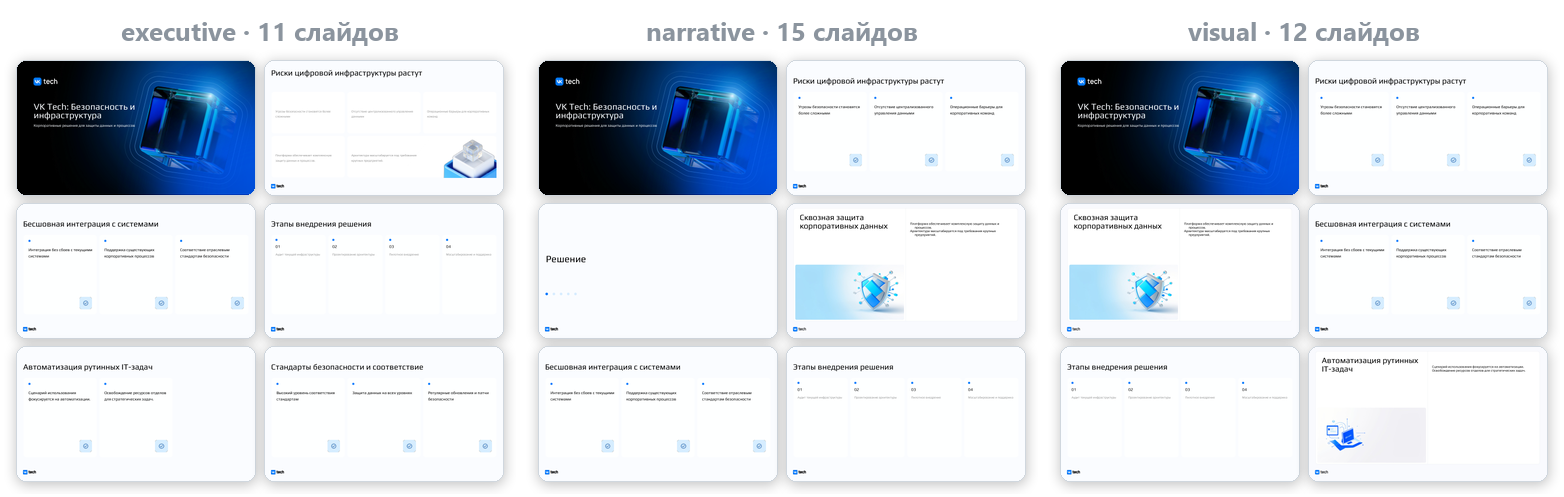
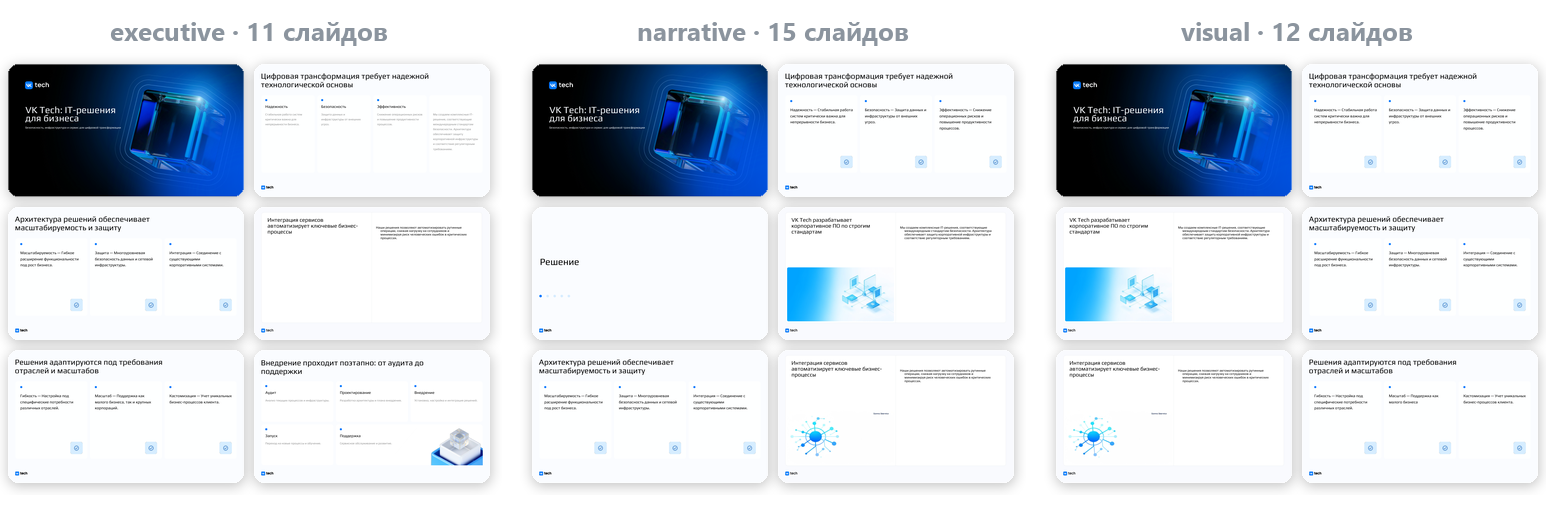
v0.1.3: версия, документация, картинки README
- Версия 0.1.3 в pyproject и deckforge.__version__ (API /health отдавал 0.1.0), бейдж релиза в README.
- README: .potx и подготовка шаблона с VLM, `deckforge prepare`, POST /templates/{id}/prepare,
  ограничение «шаблон без слайдов»; hero.png и strategies.png — по новым колодам.
- ARCHITECTURE: normalize и prepare в слоях, разметка rules / rules+vlm в manifest, «Что получилось» —
  новые цифры и две правки по прогонам.
- PLAN: ответы по ТЗ и вводной жюри, шаг 2 сделан, открытый вопрос про шаблон без слайдов — закрыт кодом.
- BACKLOG: закрыты VLM-разметка загрузки, .potx и абзац WorkSpace slide15; остаток — образцы из лейаутов.

diff --git a/deckforge/__init__.py b/deckforge/__init__.py
@@ -1,3 +1,3 @@
 """deckforge — цифровой дизайнер презентаций: .pptx-шаблон → дизайн-система → колода из брифа → аудит → экспорт."""
 
-__version__ = "0.1.0"
+__version__ = "0.1.3"

diff --git a/docs/ARCHITECTURE.md b/docs/ARCHITECTURE.md
@@ -25,18 +25,18 @@ flowchart LR
 
 | Слой | Вход → Выход | Что знает | Чего не делает |
 |---|---|---|---|
-| `parsing/` | .pptx → `TemplateDNA` | OOXML (`core/package.py` — пакет, тема, цепочки наследования; общий с `audit/`), LibreOffice-рендер, VLM (`template_tagger`); `dna.build_dna` = токены + сетка/поля (перцентили кромок контентных фигур) + фиксированные элементы + образцы | не знает о брифе и генерации |
+| `parsing/` | .pptx → `TemplateDNA` | OOXML (`core/package.py` — пакет, тема, цепочки наследования; общий с `audit/`), LibreOffice-рендер, VLM (`template_tagger`); `dna.build_dna` = токены + сетка/поля (перцентили кромок контентных фигур) + фиксированные элементы + образцы; `normalize` — .potx / .ppsx / .pptm → .pptx (тип основной части, без макросов), шаблон без слайдов → по слайду на каждый лейаут с плейсхолдерами | не знает о брифе и генерации |
 | `content/` | контент (пакет / тема / шаблон) → `DeckOutline`; `DeckOutline` + стратегия → `DeckOutline` с картинками | `content_pack` (папка → фрагменты с id: секции брифа, текст `*.md|txt|docx|pdf`, данные `data/*.json|csv|xlsx`; формат ТЗ не задаёт, нечитаемый файл — предупреждение), `template_brief` (`template_digest` — слепок шаблона: бренд, палитра, шрифты, архетипы, теги VLM и тексты слайдов-образцов без заглушек; `write_template_brief` — один вызов LLM → `TemplateBrief` → markdown-бриф; `pack_from_brief` — пакет из одного фрагмента `brief`), `outline_writer` (один вызов LLM на прогон + `repair_outline`: мягкое приведение ответа к контракту — перенумерация, недоступный архетип → bullets, серии/таблицы/KPI разной формы, обязательные title/closing; текстовый слайд без тела берёт текст из `subtitle`, а если и его нет — снимается, чтобы в колоде не осталось слайда с одним заголовком), `images` (`illustrate`: какие слайды иллюстрировать — по `Strategy.images` и `RunConfig.images`; промпт — скилл `image_prompter` по заголовку, тексту и палитре; генерация — `LLMClient.generate_image`; до 4 картинок на колоду параллельно, кэш по sha1 входов в `<out>/images/` — общий для колод прогона: одинаковую картинку генерирует одна колода, соседняя ждёт её по ключу) | не знает координат и шрифтов; стратегию видит только как режим картинок |
 | `layout/` | `DeckOutline` + `TemplateDNA` + стратегия → `DeckIR`; `DeckIR` + находки аудита → исправленный `DeckIR` | `planner` (применение стратегии к составу слайдов), `exemplar_picker` (образец под слайд с фолбэками по архетипам), `fitting` (детерминированная подгонка текста под слоты), `autofix` (применение фиксов из каталога `core/autofix` к копии IR, журнал applied/skipped), `builder` (сборка IR слайд за слайдом). Слайд, на котором не осталось бы ничего кроме заголовка, `planner` снимает — готовый outline (`--outline`) идёт мимо `repair_outline` | не пишет файлы, не вызывает LLM |
 | `render/` | `DeckIR` → .pptx | клонирование образцов, python-pptx charts/tables, иконки, картинки | не вызывает LLM |
 | `audit/` | .pptx + `TemplateDNA` (+ `DeckIR`, + PNG) → `AuditReport` | `context` (колода читается один раз через `core/deck_reader` — общий с `export/` читатель: фигуры с резолвленными шрифтами/цветами, картинки, данные chart/table; с DeckIR известно, что заполнено нами, что декор образца), 24 детерминированные проверки `deterministic/` (см. `docs/AUDIT.md`), `text_metrics` (Pillow); `contextual/judge` — VLM-судья (`audit_judge`, 11 вопросов по PNG, параллельно по слайдам) | не изменяет колоду (имена фиксов — из `core/autofix.FIXES`, применяет `layout/autofix`) |
 | `export/` | .pptx → .pdf / PNG / .html | LibreOffice headless (`render.py`: pptx → pdf → PNG + contact sheet — один путь для VLM-разметки, аудита, превью и PDF); `html.py` — свой рендер готовой колоды в один самодостаточный файл: фон → фигуры мастера → лейаута → слайда (через `core/deck_reader`), текст с резолвленными шрифтами/кеглями/цветами, диаграммы — inline SVG по данным из XML, таблицы — `<table>`, картинки вшиты, встроенные шрифты — `@font-face` по `p:embeddedFontLst` (EOT датасета сжат MTX → OFL-гарнитуры с Google Fonts, офлайн — fallback-стек), `normAutofit` — shrink-to-fit скриптом. Возможности просмотра — README | не вызывает LLM; HTML не из DeckIR — в IR нет декора образца и мастера |
-| `pipeline/` | `RunConfig` (yaml) → outline → колоды по стратегиям | этапы как функции: `parse_template` (шаблон → `ParsedTemplate` + `dna.json`), `content_for_outline` (лестница входа: пакет → тема → шаблон), `make_outline` (один вызов LLM или готовый outline), `build_deck` (стратегия: images → layout → render → аудит → safe-автофиксы → re-render → PNG → VLM-судья → PDF → `manifest.json`), `refine_deck` (фиксы по выбору пользователя к готовой колоде), `run` = всё вместе + `compare.md`, `run.json`: колоды стратегий собираются параллельно в потоках под одним дедлайном прогона (`RunContext.deadline`, раздел «Бюджет времени»); `workspace` — реестр шаблонов (датасет + загрузки) и сборка контент-пакета из файлов пользователя | — |
-| `api/`, `ui/`, `cli.py` | точки входа | `cli`: `parse` / `run --config` / `audit` / `export` (html/pdf/png для любой колоды); `ui/app.py` (Streamlit) вызывает `pipeline` in-process: шаблон (датасет или загрузка) → бриф + файлы → варианты с PNG → аудит с чекбоксами фиксов (safe / по выбору; replan и дизайн шаблона не чинятся) и подсветкой `Finding.box` на слайде → скачивание .pptx / .pdf / json; `api/app.py` (FastAPI) — те же функции job'ами: `POST /templates`, `POST /generate` → `GET /jobs/{id}` → `.../decks/{strategy}/audit` → `POST .../fix` → `GET .../files/{name}` (белый список имён), `POST /audit` чужой колоды | не содержат бизнес-логики, друг друга не импортируют |
+| `pipeline/` | `RunConfig` (yaml) → outline → колоды по стратегиям | этапы как функции: `parse_template` (шаблон → `ParsedTemplate` + `dna.json`; шаблон, которому нужна нормализация, разбирается и клонируется из копии `out/prepared/<stem>__<sha1>.pptx`), `prepare.prepare_template` (подготовка вне бюджета генерации: PNG образцов → правила + VLM для неоднозначных → `out/archetypes/<stem>.json`; её же зовут `deckforge prepare`, кнопка UI, `POST /templates/{id}/prepare` и `tools/classify_layouts.py`), `content_for_outline` (лестница входа: пакет → тема → шаблон), `make_outline` (один вызов LLM или готовый outline), `build_deck` (стратегия: images → layout → render → аудит → safe-автофиксы → re-render → PNG → VLM-судья → PDF → `manifest.json`), `refine_deck` (фиксы по выбору пользователя к готовой колоде), `run` = всё вместе + `compare.md`, `run.json`: колоды стратегий собираются параллельно в потоках под одним дедлайном прогона (`RunContext.deadline`, раздел «Бюджет времени»); `workspace` — реестр шаблонов (датасет + загрузки) и сборка контент-пакета из файлов пользователя | — |
+| `api/`, `ui/`, `cli.py` | точки входа | `cli`: `parse` / `prepare` / `run --config` / `audit` / `export` (html/pdf/png для любой колоды); `ui/app.py` (Streamlit) вызывает `pipeline` in-process: шаблон (датасет или загрузка .pptx / .potx; у загруженного — подготовка с VLM кнопкой) → бриф + файлы → варианты с PNG → аудит с чекбоксами фиксов (safe / по выбору; replan и дизайн шаблона не чинятся) и подсветкой `Finding.box` на слайде → скачивание .pptx / .pdf / json; `api/app.py` (FastAPI) — те же функции job'ами: `POST /templates`, `POST /generate` → `GET /jobs/{id}` → `.../decks/{strategy}/audit` → `POST .../fix` → `GET .../files/{name}` (белый список имён), `POST /audit` чужой колоды | не содержат бизнес-логики, друг друга не импортируют |
 
 `manifest.json` каждой колоды (провенанс):
 
-- шаблон (id, путь, sha1), `content_source` (`pack` / `topic` / `template` / `outline`), контент-пакет и/или `brief.md`, путь к outline, стратегия и её версия;
+- шаблон (id, путь, sha1, `labels` — разметка образцов `rules` / `rules+vlm`; у приведённого .potx или шаблона без слайдов — `source` и `normalized`), `content_source` (`pack` / `topic` / `template` / `outline`), контент-пакет и/или `brief.md`, путь к outline, стратегия и её версия;
 - версии скиллов (`outline_writer: v1`, `audit_judge: v1`), модели (text / vision / image, base_url), журнал вызовов LLM (длительность, токены — бриф и outline прогона + вызовы только этой колоды: промпты картинок, генерации, судья по слайдам);
 - план (архетип и заголовок каждого слайда после стратегии), выбранные образцы со скором, предупреждения outline и layout, статистика плотности;
 - `audit`: ошибки/предупреждения/контекстуальные, по проверкам, слайды с проблемами, путь к `<strategy>.audit.json`; `autofix`: применено/пропущено, `before`/`after`, журнал правок «было → стало» или причина пропуска; после `refine_deck` — `autofix.user_applied` и `contextual_stale: true`, если находки судьи относятся к колоде до фиксов;
@@ -79,7 +79,7 @@ flowchart LR
 2. **Клонирование образцов, а не генерация по лейаутам.** У VK WorkSpace все 15 лейаутов содержат единственный плейсхолдер `title`; весь дизайн живёт в свободных фигурах слайдов. Единственный способ воспроизвести стиль — копировать XML слайда-образца (с rels и медиа) и подменять содержимое слотов. Побочный эффект: экспорт .pptx нативными объектами получается автоматически.
    Механика (`render/pptx_writer.py`): выходной файл — сам шаблон, открытый python-pptx; исходные слайды отвязываются от `p:sldIdLst` перед сохранением (мастера, лейауты, тема и встроенные шрифты остаются), для каждого слайда колоды копируется `p:cSld` + `p:clrMapOvr` образца, связи переносятся с переписыванием rId (картинки — общие части, chart/diagram/xlsx — глубокая копия, т.к. один образец может клонироваться несколько раз). Текст заполняется новыми абзацами с `pPr`/`rPr` образца по уровню, картинки — подменой `blip` с center-crop, chart/table — нативными объектами python-pptx на месте фигур образца. Незаполненное убирается, а не остаётся заглушкой: текстовые слоты очищаются, слот с собственной рамкой и «контейнер» (фон карточки/строки без единого заполненного слота) удаляются вместе со своим декором, заглушки вроде «Вставить фото» чистятся даже у фиксированных фигур и у полей-колонтитулов, которые иначе сохраняются как есть (`core/placeholders`; там же обращения шаблона к автору — «P.S. Не забудьте удалить этот слайд», как на слайдах-инструкциях `data/wild`). Ничего не растеризуется.
    Особенность LibreOffice (им делаются PDF, PNG и, значит, картинки для судьи): плейсхолдеры *лейаута* без пары на слайде он рисует — с текстом-подсказкой «Образец текста» и заливкой карточек; PowerPoint их не показывает. Писатель переносит наследуемые xfrm/заливку/обводку в плейсхолдеры слайда и гасит контентные плейсхолдеры лейаутов (поля — номер, дата — не трогает): вид в PowerPoint не меняется, PDF/PNG чистые. Плейсхолдер картинки (`p:sp` с `ph type="pic"`, как в ЛЦТ2026) при заполнении становится `p:pic` — так делает сам PowerPoint; `blipFill` на `p:sp` LibreOffice не рисует, а аудит считает такой плейсхолдер пустым.
-3. **Архетипы по геометрии.** Имена лейаутов ненадёжны (`14_Контент`, `DEFAULT`, дубликаты). Классификация: детерминированные правила по плейсхолдерам/bbox/типам фигур, VLM уточняет неоднозначные случаи и размечает декор. Ответы VLM кэшируются (рабочий `out/archetypes/<stem>.json`; для датасета и holdout — `data/archetypes/<stem>.json` в репо, чтобы чистый clone воспроизводил примеры; привязка к sha1 файла) и при загрузке накладываются на свежий профиль правил — слоты не хранятся, поэтому правки правил (вместимость заголовка по плашке под ним, тела карточки — по высоте подложки, chart-слот на крошечной цифре в центре нарисованного кольца растягивается на декор) действуют сразу.
+3. **Архетипы по геометрии.** Имена лейаутов ненадёжны (`14_Контент`, `DEFAULT`, дубликаты). Классификация: детерминированные правила по плейсхолдерам/bbox/типам фигур, VLM уточняет неоднозначные случаи и размечает декор. Правила работают при каждой загрузке (≈ 1 с), VLM — на подготовке шаблона (`pipeline/prepare`, 30–60 с): по вводной жюри подготовка шаблона идёт без лимита времени, а в 5 минут укладывается только генерация. Какая разметка собрала колоду, пишется в `manifest.json` (`template.labels`: `rules` / `rules+vlm`). Шаблон без слайдов-примеров (обычный .potx) получает образцы из лейаутов: `parsing/normalize` добавляет по слайду на каждый лейаут с плейсхолдерами, геометрию и стиль плейсхолдеры наследуют, как у нового слайда в PowerPoint. Ответы VLM кэшируются (рабочий `out/archetypes/<stem>.json`; для датасета и holdout — `data/archetypes/<stem>.json` в репо, чтобы чистый clone воспроизводил примеры; привязка к sha1 файла) и при загрузке накладываются на свежий профиль правил — слоты не хранятся, поэтому правки правил (вместимость заголовка по плашке под ним, тела карточки — по высоте подложки, chart-слот на крошечной цифре в центре нарисованного кольца растягивается на декор) действуют сразу.
 4. **Стратегии как файлы.** Три варианта вёрстки (`executive`, `narrative`, `visual`) отличаются плотностью, приоритетом архетипов и способом визуализации данных. Ось различий — *плотность + визуализация*, потому что именно она видна с первого взгляда и одинаково применима к любому шаблону. Подробно — в разделе «Три стратегии: ось различий».
 5. **Скиллы версионируются как данные.** `skills/<name>/v<N>/` + `registry.yaml`; в `manifest.json` каждой колоды — версии скиллов, моделей и стратегии. Промптов в коде нет.
 6. **Аудит с авто-фиксом внутри цикла.** Детерминированные проверки дешёвые (< 1 с на колоду, измерено) — выполняются после каждого рендера; контекстуальные (VLM) — один раз в конце, параллельно по слайдам и по колодам (15 слайдов ≈ 30–70 с, три колоды судятся одновременно, измерено), чтобы три варианта уложились в 5 минут. Аудит различает «мы сломали» и «так устроен шаблон»: геометрия и цвета, унаследованные от образца, дают `warning` с `evidence.in_exemplar`, наши — `error`; проверки шаблонности смотрят только на заполненные нами слоты и добавленные объекты. Без `DeckIR` аудит работает на любой чужой колоде.
@@ -118,21 +118,29 @@ flowchart LR
 
 Подгонка текста (`layout/fitting.py`) от стратегии не зависит: сначала кегль — до 70 % от кегля образца (заголовок титула, раздела и финала — до 55 %, крупный заголовок слайда — до 18 pt, крупный текст — до 12 pt; тот же пол у пикера и у автофикса L03; крупные цифры KPI — до 40 %, единица измерения мелким кеглем рядом), и только если не спасло — хвост по разделителям → обрезка по словам. Заголовок режется по «:» / « — » («Следующий шаг: консультация для…» → «Следующий шаг»), многоточие — последний выход.
 
-**Что получилось на одном контенте.** Контент-пакет датасета — это только три шаблона: брифа, текстов и данных в нём нет. Поэтому примеры собраны в режиме «только шаблон» (раздел «Режимы входа»). `template_brief` вывел бриф из шаблона VK Tech (`examples/output/vk_tech/brief.md`, «Корпоративные IT-решения VK Tech: безопасность и инфраструктура»), и по нему `outline_writer@v3` написал outline из 12 слайдов (`examples/output/vk_tech/outline.json`): титул, 5 слайдов-карточек по 3 тезиса, 3 image_text с абзацем, процесс из 4 шагов, 3 тезиса «стратегических преимуществ» и финал. Цифр в нём нет: KPI, которые модель всё же предложила, `repair_outline` заменил тезисами. Этот outline идёт на все четыре шаблона (`configs/final/*.yaml`). Прогон с судьёй и картинками, VK Tech (`examples/output/vk_tech/compare.md`):
+**Что получилось на одном контенте.** Контент-пакет датасета — это только три шаблона: брифа, текстов и данных в нём нет. Поэтому примеры собраны в режиме «только шаблон» (раздел «Режимы входа»). `template_brief` вывел бриф из шаблона VK Tech (`examples/output/vk_tech/brief.md`, «Корпоративные IT-решения VK Tech: безопасность, инфраструктура и сервис»). По нему `outline_writer@v3` написал outline из 12 слайдов (`examples/output/vk_tech/outline.json`): титул, 6 слайдов-карточек по 3 тезиса, 3 image_text с абзацем, процесс из 5 шагов и финал. Цифр в нём нет. Этот outline идёт на все четыре шаблона (`configs/final/*.yaml`). Прогон с судьёй и картинками, VK Tech, три варианта параллельно (`examples/output/vk_tech/compare.md`):
 
-| стратегия | слайдов | образцы по порядку | пунктов/слайд | разделителей | иллюстраций | аудит err/warn | время, с |
+| стратегия | слайдов | образцы по порядку | пунктов/слайд | разделителей | иллюстраций | аудит err/warn | готова через, с |
 |---|---|---|---|---|---|---|---|
-| executive | 11 | title → cards ×6 → image_text → cards ×2 → closing | 3,6 | 0 | 0 | 2/25 | 74 |
-| narrative | 15 | title → cards → section → image_text → … → closing (3 раздела) | 3,2 | 3 | 3 | 1/17 | 72 |
-| visual | 12 | title → cards → image_text → … → closing | 3,2 | 0 | 4 | 1/15 | 59 |
+| executive | 11 | title → cards ×2 → image_text → cards ×4 → image_text → cards → closing | 3,8 | 0 | 0 | 1/20 | 100 |
+| narrative | 15 | title → cards → section → image_text → … → closing (3 раздела) | 3,5 | 3 | 3 | 2/16 | 145 |
+| visual | 12 | title → cards → image_text → … → closing | 2,5 | 0 | 4 | 3/10 | 116 |
 
-**Детерминированных ошибок нет ни в одной из 12 колод** (`examples/output/*/*.audit.json`, 4 шаблона × 3 стратегии). Все ошибки — находки VLM-судьи, 24 на 12 колод: в основном C05 «тезис без раскрытия» и C04 на слитых слайдах. Это цена режима без исходников: раскрывать тезис числами и фактами не из чего. Время — 34–74 с на колоду: примеры собраны ещё по очереди, с бюджетом на колоду; параллельная сборка трёх вариантов под общим бюджетом — раздел «Бюджет времени на прогон».
+**Детерминированных ошибок нет ни в одной из 12 колод** (`examples/output/*/*.audit.json`, 4 шаблона × 3 стратегии). Все ошибки — находки VLM-судьи, 17 на 12 колод:
+- C07 «служебный мусор» — чаще всего это многоточие обрезанного заголовка в однострочном «чипе» ЛЦТ2026 или подзаголовка титула;
+- C05 «тезис без раскрытия» и C04 — цена режима без исходников: раскрывать тезис числами и фактами не из чего.
 
-Без данных ось различий уже, чем на контенте с цифрами: в outline нет рядов, таблиц и метрик, поэтому chart ↔ table ↔ KPI не проявляется. Варианты различаются тем, что стратегия может сделать с текстом:
+Прогоны (разбор, бриф, outline и три колоды) заняли 64–180 с из 300.
 
-- **executive** — 11 слайдов, самая плотная: соседние image_text без картинки слиты с карточками (`planner.merge_pair`), разделителей и иллюстраций нет;
+Без данных ось различий уже, чем на контенте с цифрами: в outline нет рядов, таблиц и метрик, поэтому chart ↔ table ↔ KPI не проявляется. Варианты различаются тем, что стратегия может сделать с текстом и шагами:
+
+- **executive** — 11 слайдов, самая плотная: разделителей и иллюстраций нет, шаги процесса — нумерованными карточками;
 - **narrative** — 15 слайдов: три слайда-разделителя разделов, три image_text со сгенерированными иллюстрациями, одна мысль на слайд;
-- **visual** — 12 слайдов: четыре иллюстрации, тезисы карточками с иконками.
+- **visual** — 12 слайдов: четыре иллюстрации (три взяты из кэша, сгенерированного narrative в том же прогоне), шаги — схемой из шевронов.
+
+Две правки сделаны по этим прогонам:
+- Картинка слайда не ложится в рамку, поверх которой лежит текст образца (`exemplar_picker.BACKDROP_PICTURE_PENALTY`). Иначе у VK Tech иллюстрация вставала на тёмную подложку слайда с кодом под жёлтый текст, а FLUX дорисовывал на ней псевдоиероглифы.
+- «KPI» без единой цифры («Гибкая» — «Модель лицензирования») `repair_outline` переводит в буллеты: в кольцах KPI-образца слово читалось как сломанная диаграмма.
 
 Ось визуализации данных видна на синтетическом пакете «Пульс команды» (`examples/content_pack`: ряд по месяцам, таблица «до/после», KPI). Это ступень «бриф и файлы», воспроизводится без LLM: `tools/build_variants.py "data/templates/VK Tech шаблон.pptx"`. Там executive даёт 2 таблицы и 0 диаграмм, narrative — диаграмму, таблицу и 2 KPI-слайда, visual — 2 диаграммы и 2 KPI-слайда.
 

diff --git a/docs/PLAN.md b/docs/PLAN.md
@@ -28,7 +28,7 @@
 
 ## Чек-лист сдачи
 
-- [x] Репозиторий публичный (открыт 24.09), тег `v0.1.2` на GitHub с релизом и лицензией MIT; `configs/run.example.yaml` + `docker compose up` воспроизводят прогон (чистый clone + `docker compose build` + прогон конфигом проверены; разметка образцов — `data/archetypes/`)
+- [x] Репозиторий публичный (открыт 24.09), тег `v0.1.3` на GitHub с релизом и лицензией MIT; `configs/run.example.yaml` + `docker compose up` воспроизводят прогон (чистый clone + `docker compose build` + прогон конфигом проверены; разметка образцов — `data/archetypes/`)
 - [x] README (сетап, `.env` переменные, ограничения, скриншоты UI), ARCHITECTURE, MODELS (HF-ссылки, лицензии, требования), AUDIT (таблица проверок: id, детерминированная/контекстуальная, покрытие); `pytest` зелёный (парсинг 4 шаблонов, каждая проверка на своей фикстуре, e2e с мок-LLM на кассетах)
 - [x] `skills/` с версиями, `manifest.json` в каждой колоде
 - [x] 9 колод (3 шаблона × 3 варианта) в `examples/output/` + holdout на ЛЦТ2026 — 12 колод. ЛЦТ2026 не использовался при разработке правил парсинга; адаптивность дополнительно проверена на `data/wild`
@@ -36,7 +36,7 @@
 - [x] Экспорт .pptx нативными объектами — проверено в PowerPoint через COM (`tools/powerpoint_check.py`): колоды открываются и сохраняются, объекты нативные, пустых плейсхолдеров нет
 - [x] Аудит визуализирует проблемы в UI, пользователь выбирает фиксы
 - [x] Три варианта ≤ 5 мин вместе — колоды собираются параллельно под одним дедлайном прогона `RUN_TIME_BUDGET_S` (картинки → судья пропускаются при нехватке), факт в manifest `timings_s.deck_total` и в `run.json` `timings_s.total`; замер VK Tech с судьёй и картинками — 200 с от старта (ARCHITECTURE, «Бюджет времени на прогон»)
-- [x] `examples/output` перегенерированы финальным кодом в режиме «только шаблон»: бриф и outline выведены из VK Tech (`content_source: template`, `template_brief@v2`, `outline_writer@v3`, `audit_judge@v2`), остальные три шаблона — на том же outline. 12 колод: объём в диапазоне стратегии, детерминированных ошибок 0, время 34–74 с на колоду
+- [x] `examples/output` перегенерированы финальным кодом в режиме «только шаблон»: бриф и outline выведены из VK Tech (`content_source: template`, `template_brief@v2`, `outline_writer@v3`, `audit_judge@v2`), остальные три шаблона — на том же outline. Перегенерированы 24.09 кодом со схемами процесса и правками вёрстки. 12 колод: объём 11–15 в диапазоне стратегии, детерминированных ошибок 0, разметка образцов `rules+vlm`, прогон трёх вариантов параллельно — 64–180 с из 300. Проверены в PowerPoint через COM: все открываются, пустых плейсхолдеров и слайдов-картинок нет
 - [ ] Публичный демо-стенд (https://deckforge.streamlit.app, Streamlit Community Cloud) и галерея 12 колод (https://kireev-duty.github.io/deckforge/); бейдж и ссылки в начале README. Галерея — `.github/workflows/pages.yml` по тегу.
   - Стенд проверен эмуляцией Cloud:
     - условия — Debian 12, Python 3.12, клон без LFS, лимиты 2 CPU / 2,7 ГБ;
@@ -46,7 +46,7 @@
   - 24.09 репозиторий открыт, галерея опубликована. Осталось: сделать приложение на Streamlit Cloud публичным.
 - [ ] Видео-демо ≤7 мин без склеек (сценарий — `docs/DEMO.md`)
 - [x] Питч-дек по структуре ТЗ и шаблона ЛЦТ2026 — `docs/deckforge_pitch.pptx`; проверен в PowerPoint
-- [ ] Загрузить на платформу хакатона все материалы: ссылка на публичный репозиторий (тег `v0.1.2`), питч `docs/deckforge_pitch.pptx`, видео-демо, 12 колод из `examples/output`
+- [ ] Загрузить на платформу хакатона все материалы: ссылка на публичный репозиторий (тег `v0.1.3`), питч `docs/deckforge_pitch.pptx`, видео-демо, 12 колод из `examples/output`
 - [x] Прогон без контента: на входе только шаблон → бриф выводится из него (`configs/template_only.yaml`, скилл `template_brief`, `content_source` в манифесте) — ARCHITECTURE, «Режимы входа»
 - [x] Контент-пакет датасета проверен: это только три шаблона .pptx (ТЗ §5 «Ресурсы»), текстов и данных в нём нет. Поэтому 12 колод в `examples/output` собраны в режиме «только шаблон»: бриф выводится из шаблона VK Tech (`template_brief`), его outline идёт на все четыре шаблона (`configs/final/*.yaml`). Синтетический `examples/content_pack` («Пульс команды») — пример ступени «бриф и файлы» и фикстура тестов, к датасету не относится
 
@@ -60,39 +60,55 @@
 - На финальной защите презентации генерируются по шаблону, которого команды не видели — сценарий демо на чужом шаблоне (`docs/DEMO.md`).
 - Кто делает коммиты — неважно; TTFT/SLA инференса VK не предоставляются.
 
-## Вопросы организаторам (открытые)
+## Вводная жюри
 
-Как читается «контент-пакет» в ТЗ: §5 — часть датасета (3 шаблона + контент-пакет); §2 п.1 — его «импортируют и декомпозируют», т.е. это сырые исходники, а не готовый текст слайдов; задача 2 — структуру и тексты сервис делает сам «по краткому брифу и назначению», бриф — отдельный вход; Приложение 1, вопрос 4 — пакет есть «исходные материалы», единственный источник фактов; §6 — «один контент» на 9 колод = один пакет. Наша реализация (`brief.md` + тексты + `data/*`) этому соответствует, формат файлов ТЗ не задаёт.
+- Подготовка шаблона и контекста — без лимита времени; генерация — ≤ 5 минут.
+- На выходе слайды **и текст к каждому слайду**; выступление ограничено по длительности (7 минут).
+- Контекст на входе — репозиторий, документация и история; свой шаблон должен анализироваться.
 
-**Уточнение: контент-пакет датасета — только три шаблона, на финале контента на входе тоже не будет — только шаблон.** Вход стал лестницей (ARCHITECTURE, «Режимы входа»): пакет, если он есть → тема одной строкой → только .pptx, из которого бриф выводит скилл `template_brief`. 12 колод в `examples/output` собраны на последней ступени. Вопросы ниже остаются открытыми на случай, если пакет всё же появится.
+Что сделано по вводной:
+- **Подготовка шаблона** — `pipeline/prepare.prepare_template`: PNG образцов → правила + VLM для неоднозначных → кэш разметки. Вызывается так: `deckforge prepare`, кнопка «Уточнить разметку VLM» в UI, `POST /templates/{id}/prepare`. Идёт до генерации, в бюджет 5 минут не входит. Какая разметка собрала колоду — в `manifest.json` (`template.labels`).
+- **Текст к слайдам, длительность выступления, контекст из репозитория** — не сделаны. План — `deckforge-jury-plan.md`, шаги 3–4.
 
-Контент-пакет (если он будет):
-- Состав и формат пакета на финале (docx/md/xlsx/изображения)? Такой же по структуре, как в датасете, или новый?
-- Если текст в пакете уже разбит по разделам/слайдам — сохранять структуру или сервис вправе перекомпоновать («сервис определяет состав слайдов»)?
-- Бриф и назначение (фича/продукт/проект/инициатива) — часть пакета или вводятся пользователем на защите?
-- Готовые изображения/скриншоты в пакете — использовать как есть? Засчитывается ли тогда «звёздочка» за сгенерированные?
-- Материала больше, чем на 10–15 слайдов — приоритизировать или расширять объём?
+## Ответы по ТЗ
+
+Вопросы, заданные до уточнений, сверены с текстом ТЗ (`docs/tz/4. VK Tech ТЗ.pdf`), уточнениями организаторов и вводной жюри. «Позиция» — источники молчат, решаем сами.
+
+Контент-пакет:
+- Состав и формат пакета на финале → пакета не будет: на входе шаблон и задача, контекст — репозиторий, документация и история (уточнение, вводная жюри). Лестница входа (ARCHITECTURE, «Режимы входа») остаётся на случай, если пакет всё же появится.
+- Текст уже разбит по слайдам — сохранять или перекомпоновать → перекомпоновать: «сервис определяет состав слайдов, их последовательность и содержание до этапа вёрстки» (ТЗ §2, задача 2).
+- Бриф и назначение — часть пакета или ввод пользователя → ввод: текст генерируется «из задачи перед воркфлоу и контекста в нём»; назначение — «фича, продукт, проект, инициатива» (ТЗ §2, задача 2; уточнение).
+- Готовые картинки в пакете и «звёздочка» → снято: пакета нет; звёздочка — сгенерированные изображения моделью T2I ≤ 20B, которую предлагает команда (ТЗ §2 п. 3.1).
+- Материала больше, чем на 10–15 слайдов → сжимать до объёма: «10–15 слайдов (или заданный пользователем)» (ТЗ §2, «Рамки»). Актуально для контекста из репозитория.
 
 Режим без исходников:
-- Раз фактуры на входе нет, содержание колоды сервис формулирует сам по бренду и стилю шаблона, без чисел и имён. Как это оценивается по вопросу 4 Приложения 1 («факты из исходных материалов»), если исходных материалов нет по условию? У нас C04 в этом режиме проверяет самосогласованность колоды.
-- Тема презентации на защите задаётся устно/строкой или её тоже выводит сервис из шаблона?
+- Вопрос 4 Приложения 1 без исходных материалов → Приложение 1 — «расширяемый ориентир», проверки можно расширять и сокращать «с обоснованием»; C04 проверяет самосогласованность колоды, обоснование — `docs/AUDIT.md`. С контекстом из репозитория C04 снова сверяет факты с источниками.
+- Тема задаётся строкой или выводится из шаблона → задаётся («задача перед воркфлоу», уточнение); вывод из шаблона (`template_brief`) — запасная ступень.
 
-Шаблон на финале (риск для клонирования образцов):
-- Незнакомый шаблон содержит слайды-примеры, как в датасете, или только мастер/лейауты (по сути .potx)? Во втором случае «соответствие правилам шаблона» = вёрстка по плейсхолдерам лейаутов?
-- Когда его выдадут — заранее (час, день) или на защите? Сколько времени на прогон?
-- 16:9, встроенные шрифты, анимации/видео — что из этого нужно сохранять?
-- Три варианта на финале — на незнакомом шаблоне или снова на трёх из датасета?
+Шаблон на финале:
+- Когда выдадут и сколько времени → подготовка шаблона без лимита, генерация трёх вариантов ≤ 5 минут вместе (вводная жюри, уточнение).
+- 16:9, встроенные шрифты, анимации и видео → позиция: ТЗ молчит, критерий 4 — «соответствие стилю». Размер слайда и встроенные шрифты сохраняются (выходной файл — сам шаблон), медиа переносятся связями; анимации и переходы не переносятся — клонируются только `p:cSld` и `p:clrMapOvr` (ARCHITECTURE, решение 2).
+- Три варианта на финале — на каком шаблоне → на незнакомом: «на финальной защите презентации генерируются по шаблону, который команды не видели ранее»; финальная сдача — «три варианта верстки одной презентации» (ТЗ §2 «Рамки», §6).
 
-Инференс VK (топ-10):
-- Qwen3.8-27B через VK — OpenAI-совместимый endpoint? Есть ли vision-вход (нужен для разметки образцов и судьи)? Можно ли отключить reasoning?
-- Text-to-image: VK предоставляет T2I-модель или команда подключает свою через внешний API (≤20B)?
-- Лимиты: RPS, `max_tokens`, параллельные запросы (судья идёт параллельно по слайдам).
-- Живое демо: интернет и доступ к инференсу VK на месте? Прогон на нашем ноутбуке или на стенде?
+Инференс VK:
+- Text-to-image → своя модель: «команда предлагает модель класса text-to-image до 20B», Apache 2.0 / MIT (ТЗ §2 п. 3.1, §3).
+- Лимиты RPS, `max_tokens`, параллельность → не дадут: «TTFT/SLA инференса VK не предоставляются» (уточнение). Защита — `LLM_MAX_CONCURRENCY` и дедлайн прогона.
 
 Сдача и оценка:
-- «Элементы SmartArt» (п.3) — обязательны именно диаграммы DrawingML, или нативные chart/table/пиктограммы закрывают пункт?
-- HTML-экспорт одним самодостаточным файлом — достаточно?
-- Версионирование скиллов/агентов — папочная схема `skills/<name>/v<N>` + `registry.yaml` подходит, или ждут конкретный инструмент?
-- На платформу грузить только .pptx или ещё pdf/html и `manifest.json`?
-- Нужны ли заметки докладчика в слайдах?
-- «Пользователь выбирает, какие проблемы исправить» — оценивается в UI, или CLI с `--fix-plan` достаточно?
+- «Элементы SmartArt» → позиция: ТЗ перечисляет «графики, таблицы, диаграммы, пиктограммы, элементы SmartArt» без формата. У нас процесс из редактируемых автофигур (`render/diagrams.py`), настоящего `dgm` нет (BACKLOG). Риск средний.
+- HTML одним самодостаточным файлом → достаточно: ТЗ требует только «экспорт в .html» (ТЗ §2 п. 7).
+- Версионирование скиллов → подходит: инструмент не задан, требуются версионирование и промпты/конфиги отдельными файлами, «не зашиты в код» (ТЗ §2 п. 4, §4).
+- Что грузить на платформу → «все материалы — продукт и презентация» (уточнение); финальная сдача — открытый репозиторий с зафиксированной версией, запуск конфиг-файлом, три варианта вёрстки (ТЗ §6). Грузим .pptx; .pdf, .html и `manifest.json` лежат в репо.
+- Заметки докладчика → нужны: «на выходе слайды и текст к каждому слайду» (вводная жюри). Поле `speaker_notes` уже доезжает до заметок .pptx и HTML, обязательными их сделает `outline_writer` v4 (в работе).
+- Выбор фиксов — UI или CLI → UI: «система визуализирует найденные проблемы, пользователь выбирает» (ТЗ §2 п. 6); сделано — чекбоксы и подсветка `Finding.box`.
+
+Сверх вопросов: критерий 3 (ТЗ §7) прямо называет «встраивание изображений» — T2I не развиваем, но то, что есть (`content/images.py`, narrative и visual), должно работать на финале.
+
+## Открытые вопросы
+
+- **Шаблон без слайдов-примеров.** ТЗ говорит «понять логику использования разных типов слайдов» — это подразумевает слайды-примеры, как в датасете, но прямо не сказано.
+  - Закрыто кодом: .potx / .ppsx / .pptm приводятся к .pptx; шаблон из одних мастера и лейаутов получает по слайду-образцу на каждый лейаут с плейсхолдерами (`parsing/normalize`).
+  - Колода по лейаутам проще, чем по слайдам-примерам: кегли и геометрия берутся из плейсхолдеров как есть (BACKLOG, parsing).
+  - Открыто: ждать ли на финале шаблон со слайдами-примерами, как в датасете.
+- **Инференс VK.** ТЗ даёт только модель (Qwen 3.8 27B) и обязательность для топ-10. OpenAI-совместимый endpoint? Есть ли vision-вход (нужен для разметки образцов и судьи)? Можно ли отключить reasoning?
+- **Живое демо.** ТЗ требует «демо-прогона сервиса (живого)». Интернет и доступ к инференсу VK на месте? Прогон на нашем ноутбуке или на стенде?

diff --git a/README.md b/README.md
@@ -4,7 +4,7 @@
 
 **Цифровой дизайнер презентаций.** Читает любой .pptx-шаблон как дизайн-систему и собирает по нему новую презентацию из нативных объектов PowerPoint — в трёх вариантах вёрстки, с аудитом и экспортом в .pptx, .pdf и .html.
 
-[![Открыть в Streamlit](https://static.streamlit.io/badges/streamlit_badge_black_white.svg)](https://deckforge.streamlit.app) [![Галерея: 12 колод](https://img.shields.io/badge/%D0%B3%D0%B0%D0%BB%D0%B5%D1%80%D0%B5%D1%8F-12_%D0%BA%D0%BE%D0%BB%D0%BE%D0%B4-0077FF?logo=githubpages&logoColor=white)](https://kireev-duty.github.io/deckforge/) [![Release v0.1.2](https://img.shields.io/badge/release-v0.1.2-2ea44f?logo=github)](https://github.com/kireev-duty/deckforge/releases/tag/v0.1.2) [![Python 3.12+](https://img.shields.io/badge/python-3.12+-3776AB?logo=python&logoColor=white)](pyproject.toml) [![License: MIT](https://img.shields.io/badge/license-MIT-yellow)](LICENSE) [![ЛЦТ 2026 · кейс VK Tech](https://img.shields.io/badge/%D0%9B%D0%A6%D0%A2_2026-%D0%BA%D0%B5%D0%B9%D1%81_VK_Tech-7B2CBF)](docs/PLAN.md)
+[![Открыть в Streamlit](https://static.streamlit.io/badges/streamlit_badge_black_white.svg)](https://deckforge.streamlit.app) [![Галерея: 12 колод](https://img.shields.io/badge/%D0%B3%D0%B0%D0%BB%D0%B5%D1%80%D0%B5%D1%8F-12_%D0%BA%D0%BE%D0%BB%D0%BE%D0%B4-0077FF?logo=githubpages&logoColor=white)](https://kireev-duty.github.io/deckforge/) [![Release v0.1.3](https://img.shields.io/badge/release-v0.1.3-2ea44f?logo=github)](https://github.com/kireev-duty/deckforge/releases/tag/v0.1.3) [![Python 3.12+](https://img.shields.io/badge/python-3.12+-3776AB?logo=python&logoColor=white)](pyproject.toml) [![License: MIT](https://img.shields.io/badge/license-MIT-yellow)](LICENSE) [![ЛЦТ 2026 · кейс VK Tech](https://img.shields.io/badge/%D0%9B%D0%A6%D0%A2_2026-%D0%BA%D0%B5%D0%B9%D1%81_VK_Tech-7B2CBF)](docs/PLAN.md)
 
 [Демо-стенд](https://deckforge.streamlit.app) · [Галерея колод](https://kireev-duty.github.io/deckforge/) · [Архитектура](docs/ARCHITECTURE.md) · [Аудит](docs/AUDIT.md) · [Модели](docs/MODELS.md) · [Сценарий демо](docs/DEMO.md)
 
@@ -17,7 +17,7 @@
 
 ## Что умеет
 
-- **Любой шаблон → дизайн-система.** Палитра с ролями, типографическая шкала, сетка и поля, фиксированные элементы и слайды-образцы по архетипам — из фактического использования на слайдах, а не из `theme.xml`.
+- **Любой шаблон → дизайн-система.** Палитра с ролями, типографическая шкала, сетка и поля, фиксированные элементы и слайды-образцы по архетипам — из фактического использования на слайдах, а не из `theme.xml`. Подходят .pptx, .potx, .ppsx и .pptm; шаблон без слайдов (только мастер и лейауты) размечается по лейаутам. Неоднозначные образцы уточняет VLM — кнопкой в UI или `deckforge prepare`, до генерации и вне её бюджета.
 - **Контент — по лестнице.** Контент-пакет (бриф, тексты, данные) → тема одной строкой → **только шаблон**: бриф выводится из самого шаблона. Чисел и фактов без источника сервис не выдумывает.
 - **Три варианта вёрстки** на одном контенте — executive, narrative, visual. Они различаются плотностью и способом показа данных; стиль шаблона не трогают.
 - **Нативные объекты.** Слайды собираются клонированием образцов шаблона: текст, фигуры, chart, table, picture; схемы процесса — редактируемые автофигуры. Растровых слайдов нет.
@@ -101,13 +101,16 @@ cp .env.example .env                 # вписать LLM_API_KEY
 
 `tools/check_env.py` проверяет ключи, доступ к моделям и LibreOffice. Если после clone шаблоны в `data/` весят ~130 байт, это LFS-указатели: поставьте git-lfs и выполните `git lfs pull`.
 
-Разметка образцов шаблонов датасета — ответы VLM `template_tagger`, привязанные к sha1 файла, — лежит в `data/archetypes/`. С ней `examples/output` воспроизводятся без вызова VLM на этапе разбора. Новый шаблон размечается правилами; VLM-уточнение — `tools/classify_layouts.py --vlm "path/to/template.pptx"`.
+Разметка образцов шаблонов датасета — ответы VLM `template_tagger`, привязанные к sha1 файла, — лежит в `data/archetypes/`. С ней `examples/output` воспроизводятся без вызова VLM на этапе разбора. Новый шаблон сразу размечается правилами; VLM-уточнение — `deckforge prepare "path/to/template.pptx"` или кнопка «Уточнить разметку VLM» в UI. Ответы модели ложатся в `out/archetypes/`, и следующий разбор их применяет.
 
 ## Запуск
 
 ```bash
 # разбор шаблона: палитра с ролями, шрифты, шкала, сетка, образцы по архетипам
 deckforge parse "path/to/template.pptx" [--json dna.json]
+
+# подготовка шаблона (вне бюджета генерации): PNG образцов → правила + VLM → кэш разметки в out/archetypes/
+deckforge prepare "path/to/template.potx" [--no-vlm] [--parallel 4]
 
 # три варианта по конфигу: контент → outline (LLM) → колоды по стратегиям → аудит → автофиксы → .pptx / .pdf / .html
 deckforge run --config configs/run.example.yaml [--png] [--no-judge] [--no-images] [--outline готовый.json]
@@ -126,7 +129,7 @@ streamlit run deckforge/ui/app.py
 uvicorn deckforge.api.app:app --reload
 ```
 
-`deckforge …` — то же, что `python -m deckforge.cli …`. API: `GET /templates`, `POST /generate` → `GET /jobs/{id}` → `…/decks/{strategy}/audit` | `fix` | `files/{name}`.
+`deckforge …` — то же, что `python -m deckforge.cli …`. API: `GET /templates`, `POST /templates` [→ `POST /templates/{id}/prepare`], `POST /generate` → `GET /jobs/{id}` → `…/decks/{strategy}/audit` | `fix` | `files/{name}`.
 
 ### Результат прогона
 
@@ -229,7 +232,7 @@ docker compose run --rm cli parse "data/templates/VK Tech шаблон.pptx"
 ## Интерфейс
 
 Один экран, пять шагов:
-1. шаблон — из датасета или свой .pptx;
+1. шаблон — из датасета или свой .pptx / .potx; у своего — кнопка «Уточнить разметку VLM» (30–60 с, до генерации);
 2. контент — только шаблон, тема одной строкой или бриф с файлами (.md, .txt, .docx, .pdf, .json, .csv, .xlsx);
 3. три варианта с превью;
 4. аудит с выбором фиксов и подсветкой находок на слайде;
@@ -326,6 +329,7 @@ tests/              pytest: разбор шаблонов, каждая пров
 - **UI:** прогон выполняется in-process. Новый прогон, запущенный поверх идущего, обрывает предыдущий. Параллельные задания — через API (`POST /generate`).
 - **Схемы (замена SmartArt):** только процесс из 2–6 шагов — ряд шевронов из автофигур в цветах и шрифте шаблона. Это редактируемые фигуры, а не объект SmartArt; схем cycle и pyramid пока нет.
 - **Пиктограммы** берутся только из образцов самого шаблона: на шаблоне без иконок их не будет.
+- **Шаблон без слайдов** (обычный .potx) размечается по лейаутам: на каждый лейаут с плейсхолдерами — слайд-образец. Кегли и геометрия берутся из плейсхолдеров лейаута, поэтому колода получается проще, чем по шаблону со слайдами-примерами. Лейауты без плейсхолдеров образцов не дают.
 - **Проверка в PowerPoint:** в .pptx только нативные объекты. Открытие, сохранение и редактируемость проверены в PowerPoint (Microsoft 365, `tools/powerpoint_check.py`).
 
 ## Лицензия

diff --git a/docs/BACKLOG.md b/docs/BACKLOG.md
@@ -4,14 +4,13 @@
 
 ## parsing
 
-- VLM-разметка для шаблона, загруженного через UI/API: `load_profiles` умеет накладывать кэш, но сам VLM вызывается только из `tools/classify_layouts.py`. Нужно `parse_template(..., vlm=True)` → миниатюры → `refine_with_vlm` для неоднозначных → запись кэша (`parsing/exemplars.cache_payload`).
-- Шаблон без единого образца (обложка-картинка, синтетика из сотни фигур) даёт колоду из 0 слайдов без ошибки; в UI нужно внятное сообщение вместо пустого результата.
+- Шаблон без единого образца (обложка-картинка, синтетика из сотни фигур, лейауты без плейсхолдеров) даёт колоду из 0 слайдов: builder пропускает каждый слайд без образца (`layout/builder.py`, «нет подходящего образца — пропущен»). UI показывает ошибку; в CLI и API отдельного сообщения нет.
+- Образцы из лейаутов (`parsing/normalize`, шаблон без слайдов) берут кегли и геометрию плейсхолдеров как есть: у МТУСИ тело мелкое, а заголовок местами заходит на декор лейаута. У VK Tech 16 лейаутов «Контент» только с заголовком становятся `section` — дизайн там живёт в свободных фигурах слайдов, а в лейаутах его нет.
 - Нераспознанные композиции (`freeform`) в `data/wild` — например `presentation_eng_dark` слайды 7–8.
 
 ## layout / render
 
 - Сетка с пустыми карточками теперь выбирается только когда у каждой карточки своя подложка (`Exemplar.card_frames`) — тогда пустую рендер убирает. В колоде из одних трёхпунктовых слайдов (режим «только шаблон») это даёт повторы единственного 3-карточного образца (VK Tech `slide24`), штраф за повтор ограничен `REUSE_MAX_COUNT`. У VK Education почти все сетки без своих подложек — пустые карточки там ещё встречаются.
-- VK WorkSpace `slide15`: три крупных блока «Заголовок + текст» размечены как `label` (жирный заголовок внутри), а единственный `body` — однострочное примечание; абзац image_text ложится в примечание и режется, блоки пустуют. Чинить разметкой (блок с ≥ 3 строками — body) или в builder: абзац — в самый вместительный текстовый слот.
 - Бледный текст карточек у части образцов (VK Tech `slide14`, верхний ряд `slide17`) — стиль «неактивной» карточки шаблона; аудит даёт T06 warning `in_exemplar`. Можно брать цвет текста из «активной» карточки того же образца.
 - Нумерация на слайде-продолжении начинается с 1 (кружки «1 2 3», `STEP_NUMBERING`), хотя это шаги 8–12: остатку нужно смещение номеров.
 - «Слово» из 300 знаков без пробелов (URL) не переносится и даёт L03; `fitting` мог бы резать по `/`, `-`, `?`.
